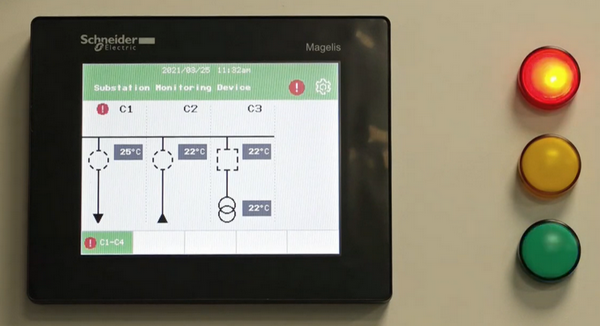
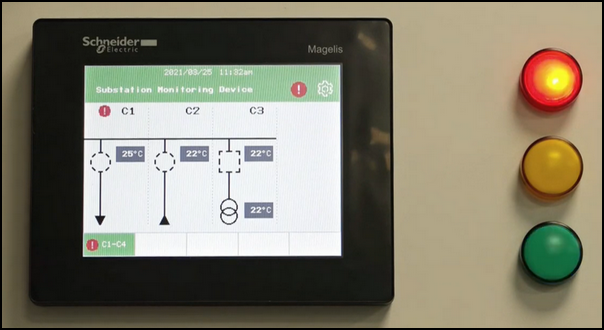
update the section 7

diff --git a/2_SystemDesign_Doc/6_Thermal_State_Monitor_Desgin.md b/2_SystemDesign_Doc/6_Thermal_State_Monitor_Desgin.md
@@ -1,14 +1,14 @@
 # Design of a Simulated 5G & Wi-Fi IIoT Thermal State Monitoring System (TSMS) for a Power Grid Cyber Twin
 
-**Project Design Purpose** : This article introduces the design and implementation of a simulated Industrial Internet of Things (IIoT)-based thermal state monitoring system developed as part of the OT Power Grid Cyber Twin environment. The project recreates the core operational concepts of a wireless temperature monitoring solution, including Wi-Fi-IoT temperature sensors, a 5G IoT gateway, and a monitoring and control Human-Machine Interface (HMI).
+**Project Design Purpose** : This article introduces the design and implementation of a simulated Industrial Internet of Things (IIoT)-based thermal state monitoring system developed as part of the [OT Power Grid Cyber Twin](https://www.linkedin.com/pulse/power-grid-ot-simulation-system-yuancheng-liu-dpplc). The project is aim to recreate the core operational concepts of a wireless temperature monitoring solution, including Wi-Fi-IoT temperature sensors, a 5G IoT gateway, and two monitoring and control Human-Machine Interface (HMI)s.
 
-The system is inspired by the functionality of the [Schneider Electric ZBRTT1 2.4KHz Wireless Temperature IoT Sensor](https://www.se.com/sg/en/product/ZBRTT1/wireless-transmitter-harmony-xb5r-transmitter-components-for-wireless-temperature-sensors-green-2400mhz/) solution and demonstrates how thermal condition monitoring can support power grid operations, equipment health assessment, abnormal condition detection, and fire risk alarm generation in modern electrical infrastructure. The project is organized into five major functional components:
+The idea of building the system is inspired by the functionality of the [Schneider Electric ZBRTT1 2.4KHz Wireless Temperature IoT Sensor](https://www.se.com/sg/en/product/ZBRTT1/wireless-transmitter-harmony-xb5r-transmitter-components-for-wireless-temperature-sensors-green-2400mhz/) solution and demonstrates how thermal condition monitoring can support power grid operations, equipment health assessment, abnormal condition detection, and fire risk alarm generation in modern electrical infrastructure. The project is organized into five major functional components:
 
-- Real-Time Power Grid Thermal State Generation and Simulation
-- Wi-Fi IIoT Power Grid Components Temperature Sensor 
-- 5G Power Grid  Thermal IIoT Sensors Gateway Simulation
-- System Components Communication and Data Transmission Security Function
-- Thermal State Data Visualization and Abnormal Condition Detection
+- Real-Time Power Grid Thermal State Generation and Simulation Module.
+- Wi-Fi IIoT Power Grid Components Temperature Sensor Simulator.
+- 5G Power Grid Thermal IIoT Sensors Gateway Simulation Module.
+- System Components Communication and Data Transmission Security Function. 
+- Thermal State Data Visualization and Abnormal Condition Detection. 
 
 > **Important** : The simulated thermal state monitoring system in cyber twin will distill (**NOT** 1:1 emulate) a few OT processes from the real world and use digital constructs to represent them for the cyber exercise and education usage. The real world power grid's thermal monitor and control system will be much more complex than what I introduced in the article. 
 
@@ -40,13 +40,13 @@ The idea for the simulated **Wi-Fi and 5G IIoT-based Power Grid Thermal State Mo
 
 #### 1.1 Project Overview
 
-The project overview diagram is shown below:
+The project design overview diagram is shown below :
 
 ![](6_Thermal_State_Monitor_Desgin_Img/s_03.png)
 
 **1.1.1 Monitored Power Grid OT Components** 
 
-There will be 4 type of components' thermal state will be monitored: 
+There will be 4 type of components' thermal state (in power transmission process) will be monitored: 
 
 - Power Grid Transformers
 - Cable Connectors and Joints
@@ -67,7 +67,7 @@ The 5G gateway aggregates temperature measurements from multiple sensors and tra
 
 ### 2. Cyber Twin ISA-95 Architecture 
 
-To implement the Thermal State Monitoring System (TSMS) in the power grid cyber twin, several different component and modules are developed and deploy in different OT layers of the cyber twin under the ISA-95 standard as shown below: 
+To implement the Thermal State Monitoring System (TSMS) in the power grid cyber twin, several components and modules are developed and deployed in different OT layers of the cyber twin under the ISA-95 standard as marked below: 
 
 ![](6_Thermal_State_Monitor_Desgin_Img/s_04.png)
 
@@ -337,27 +337,68 @@ All the data remains protected throughout its entire lifecycle, from generation 
 
 ### 7. Data Visualization and Abnormal Condition Detection
 
+The final layer of the simulated thermal monitoring system is responsible for visualizing thermal data collected from field devices and detecting abnormal operating conditions. To support both local operations and centralized grid management, the cyber twin deploys two types of Human-Machine Interfaces (HMIs) : Local Thermal State Monitoring HMIs and a Remote OCC Thermal State Monitoring HMI.
+
+The communication architecture between the monitoring systems and IoT gateways is shown below: 
+
+![](6_Thermal_State_Monitor_Desgin_Img/s_12.png)
+
+A total of four (three local and one remote) monitoring HMIs are deployed within the cyber twin:
+
+- Power Generation Area Thermal Monitoring HMI (local)
+- Power Transmission Area Thermal Monitoring HMI (local)
+- Power Distribution Area Thermal Monitoring HMI (local)
+- Power Grid OCC Remote Thermal Monitoring HMI (remote)
+
+The three local HMIs connect to their corresponding IoT gateways through the simulated **2.4 GHz Wi-Fi network**, while the OCC HMI communicates with all gateways through the simulated **5G network**. 
+
 #### 7.1 Local Thermal State HMI
 
-In the power station, power plant, there will be several state monitoring HMI for the staff to check the system operation state as shown below : 
+In real-world power plants, substations, and transmission facilities, operators continuously monitor equipment temperatures to identify abnormal conditions before they develop into equipment failures or fire hazards.
+
+Examples of industrial thermal monitoring HMIs are shown below.
 
 ![](6_Thermal_State_Monitor_Desgin_Img/s_09.png)
 
-In the cyber twin thermal state management system, we also developed a flask web based local HMI program which can host in different computer, pad and terminals to monitor the system operational data in real time. The UI is shown below: 
+**7.1.1 Local Thermal State HMI UI Design** 
+
+To simulate this functionality, a **Flask-based Web HMI** was developed as part of the cyber twin environment. The HMI can be deployed on industrial workstations, operator terminals, tablets, or other monitoring devices to provide real-time visualization of thermal data collected from nearby IoT sensors.
+
+The Local Thermal State Monitoring HMI is shown below: 
 
 ![](6_Thermal_State_Monitor_Desgin_Img/s_10.png)
 
-Each thermal IoT will be categorized in related group,  data and related operation range will shown in the item's tab. And the alert will be shown at the bottom.
+**7.1.2 Local Thermal State HMI Features** 
 
-Before use, there will be a fast configuration step, each local HMI need to peering with the IoT gateway in the same WiFi network or local ethernet: 
+The Local HMI provides the following capabilities: Real-time temperature monitoring, Sensor grouping based on monitored asset categories, Equipment status indication, Alarm and warning display and Multi-device web access.
 
-- IoT gateway IP address and MQTT port. 
-- Install the IoT gateway AES128 key and iv in the local HMI. 
-- Added the display parameter's list in the HMI configuration file and set the alarm trigger data range. 
+The monitored sensors are organized into logical groups such as: Power Transformers, Power Transmission Cables, Cable Connectors and Battery Energy Storage Systems (BESS). 
 
-Each Local HMI can only linked to one of the 3 IoT gateway. 
+Each monitored parameter displays: Current temperature value, Operational status, Warning threshold and Alarm threshold. 
 
-As the HMI provide web service, so one HMI can provide data visualization for multiple device (computer, pad, terminal, or phone) in the network with the username and password access authorization.  The data flow is shown below:
+**7.1.3 Local HMI Configuration**
+
+Before operation, each Local HMI must be paired with the corresponding IoT Gateway within the same local network.
+
+The configuration process includes:
+
+- Configuring the IoT Gateway IP address.
+- Configuring the MQTT Broker communication port.
+- Installing the gateway AES-128 encryption key and initialization vector (IV).
+- Defining the list of monitored parameters.
+- Configuring warning and alarm temperature thresholds.
+
+Because each Local HMI is designed to monitor a specific operational area, it can only subscribe to a single IoT Gateway.
+
+**7.1.4 Multi-Device Visualization**
+
+The Local HMI also functions as a lightweight web server. Once connected to the IoT Gateway, it can provide visualization services to multiple authorized devices within the local network.
+
+Supported client devices include: Operator Workstations, Industrial Consoles, Tablets, Smartphones and Engineering Laptops. 
+
+User authentication is enforced through username and password authorization before access to monitoring data is granted.
+
+The data flow is shown below:
 
 ```mermaid
 flowchart LR
@@ -375,33 +416,53 @@ flowchart LR
     H[Monitor Phone]
 ```
 
-#### 7.2 OCC Remote Thermal State HMI 
+#### 7.2 OCC Remote Thermal State HMI
 
-For the OCC remote Thermal State Visualization HMI, as its geo-location is far away from the power plant/station in the grid, it will use 5G network to connect to all the 3 IoT gateway to fetch the data. 
+While Local HMIs provide operational visibility within a specific facility, power grid operators also require a centralized platform capable of monitoring the thermal condition of geographically distributed assets.
 
- For the data visulization.
+To support this requirement, the cyber twin includes a Power Grid Operation Control Center (OCC) Remote Thermal State HMI. Unlike the Local HMIs, the OCC HMI communicates with all three IoT Gateways through the simulated 5G communication network, allowing operators to view thermal information from multiple power grid locations through a single interface. 
 
+The integrated user interface is shown below : 
 
+![](6_Thermal_State_Monitor_Desgin_Img/s_11.png)
 
+The temperature value of each monitored component is displayed adjacent to the corresponding electrical asset within the power grid topology.
 
+#### 7.3 Abnormal Condition Detection and Alarm Management
 
+The thermal monitoring system continuously evaluates incoming temperature measurements against predefined operational thresholds. Each monitored asset is assigned multiple temperature ranges corresponding to different operating conditions.Typical alarm scenarios include:
 
+- Transformer overheating
+- Cable overload conditions
+- Connector hot spots
+- BESS thermal management failures
+- Fire risk conditions
+
+**Normal Operating State** : When the measured temperature remains within the expected operating range, the component is displayed using a **Yellow** status indicator.
+
+```
+Yellow = Normal Operating Condition
+```
+
+**Warning State** : When the temperature approaches the upper operational limit, the component is displayed using an **Orange** status indicator.
+
+```
+Orange = Attention Required
+```
+
+**Alarm State** : When the temperature exceeds the predefined safety threshold, the component enters the alarm state. The affected component is displayed using:
+
+- A **Red status indicator**
+- **A Blinking alarm icon**
+- A corresponding alarm message in the monitoring interface
+
+```
+Red + Blinking Alarm = Critical Overtemperature Condition
+```
 
 
 
 ------
-
-
-
-
-
-
-
-
-
-
-
-
 
 
 